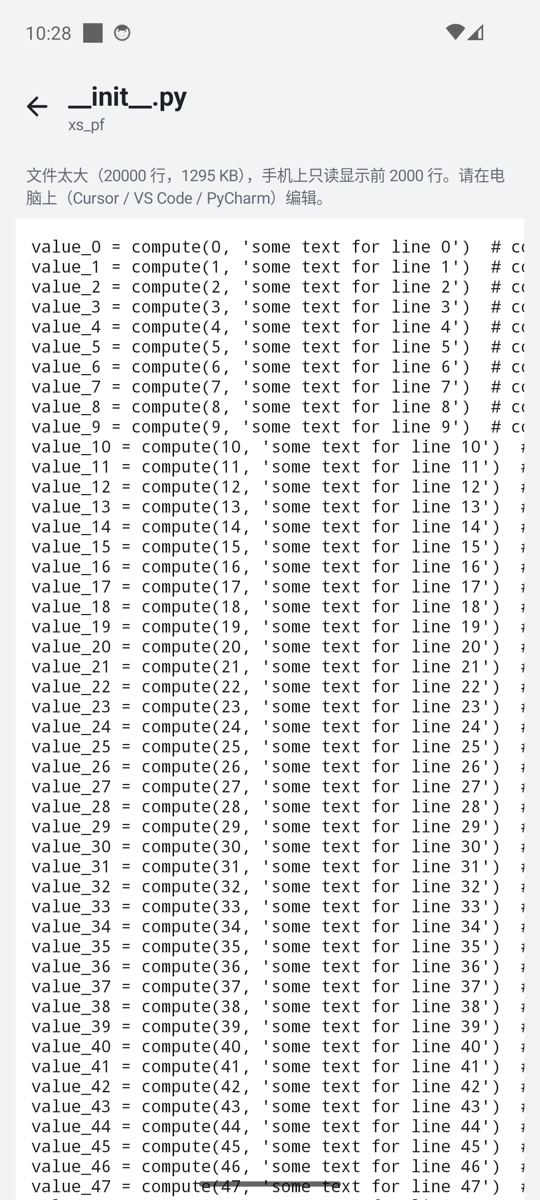
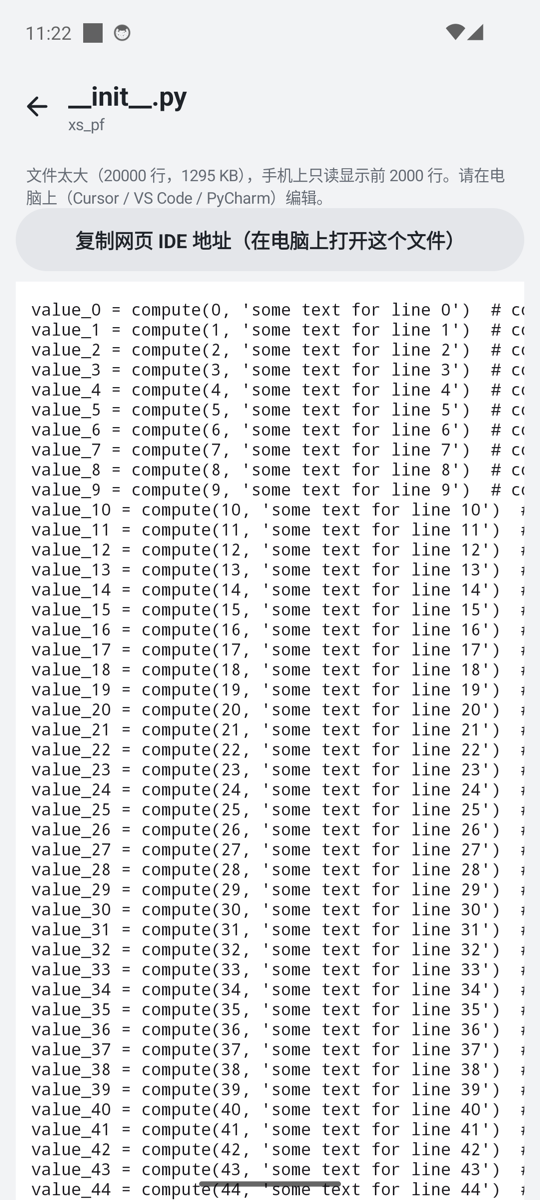
docs(android): describe the Web IDE link on the read-only preview

Changed region(s): [[0.0296, 0.185, 0.9778, 1.0], [0.9185, 0.9867, 0.9778, 1.0], [0.0593, 0.0, 0.0889, 0.0308]]

diff --git a/docs/使用手册.md b/docs/使用手册.md
@@ -111,9 +111,9 @@ python3 scripts/device_float_e2e.py emulator-5554 http://127.0.0.1:19860   # 134
 
   ![小程序详情页的最近运行：一次停止、一次出错退出、一次正常结束](images/phone-run-history.png)
 
-- **文件**：详情页列出工程里的文件（最多 300 个），点 `.py` 等文本文件用等宽编辑器打开，改完点右上角 **保存**，返回时有未保存的修改会先问你。超过 3000 行或 256 KB 的文件在手机上排版太慢（模拟器上 2 万行约 2 秒），会**只读**显示前 2000 行（超长的行截到 500 个字符），顶部说明行数和大小，没有 **保存**；这样的文件请在电脑上（Cursor / VS Code / PyCharm 或网页 IDE）编辑。
+- **文件**：详情页列出工程里的文件（最多 300 个），点 `.py` 等文本文件用等宽编辑器打开，改完点右上角 **保存**，返回时有未保存的修改会先问你。超过 3000 行或 256 KB 的文件在手机上排版太慢（模拟器上 2 万行约 2 秒），会**只读**显示前 2000 行（超长的行截到 500 个字符），顶部说明行数和大小，没有 **保存**；这样的文件请在电脑上（Cursor / VS Code / PyCharm 或网页 IDE）编辑：点 **复制网页 IDE 地址**，把复制的地址（`http://手机IP:端口/tools/ui/editor.html?project=<工程>&file=<文件>`）粘到同一网络里电脑的浏览器，网页 IDE 直接打开这个文件（还没配对时先到配对页，配好后回到这里）；手机没连 Wi-Fi 时地址是 `127.0.0.1`，提示里会给出要先在电脑上执行的 `adb forward` 命令。开发者服务没开时没有这个按钮。
 
-  ![手机编辑器打开 2 万行的文件：顶部提示文件太大、只读显示前 2000 行](images/phone-editor-readonly.png)
+  ![手机编辑器打开 2 万行的文件：顶部提示文件太大、只读显示前 2000 行，下面是「复制网页 IDE 地址」按钮](images/phone-editor-readonly.png)
 
   ![点开出错的那次：只显示这次运行的日志和报错](images/phone-run-history-log.png)
 
